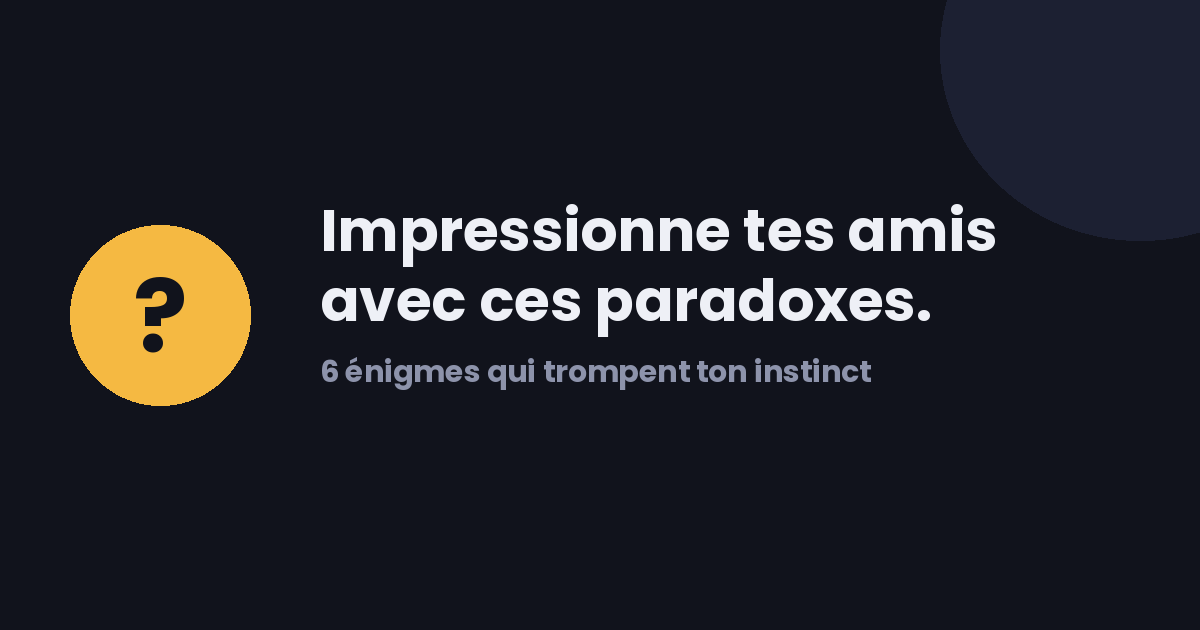
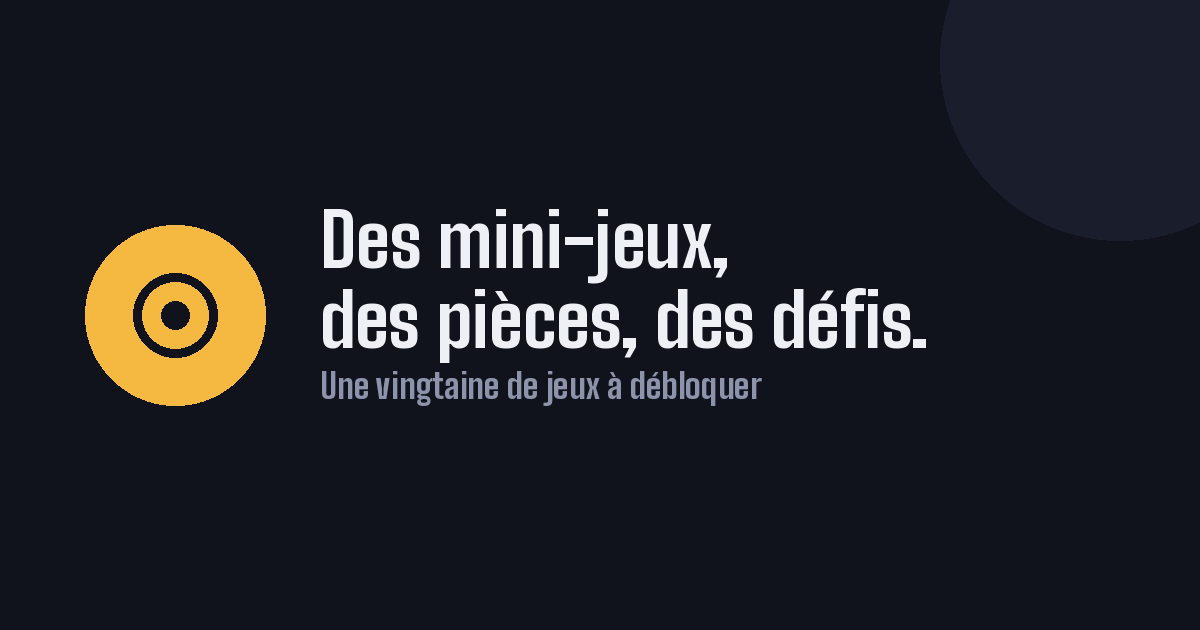
Remplace share-image.png (l'image de l'apercu de lien avait encore l'ancien texte grave dedans en tant que graphisme, pas en tant que texte modifiable - le meta og:title/description avait ete corrige mais pas cette image). Nouveau visuel dans le meme style que l'original (fond sombre --bg, cercle de

Changed region(s): [[0.0308, 0.3317, 0.8325, 0.6635], [0.1542, 0.3619, 0.185, 0.3921], [0.0925, 0.3619, 0.1233, 0.3921]]

diff --git a/sw.js b/sw.js
@@ -1,4 +1,4 @@
-const CACHE_NAME = 'paradoxes-v81';
+const CACHE_NAME = 'paradoxes-v82';
 const ASSETS = [
   './',
   './index.html',
